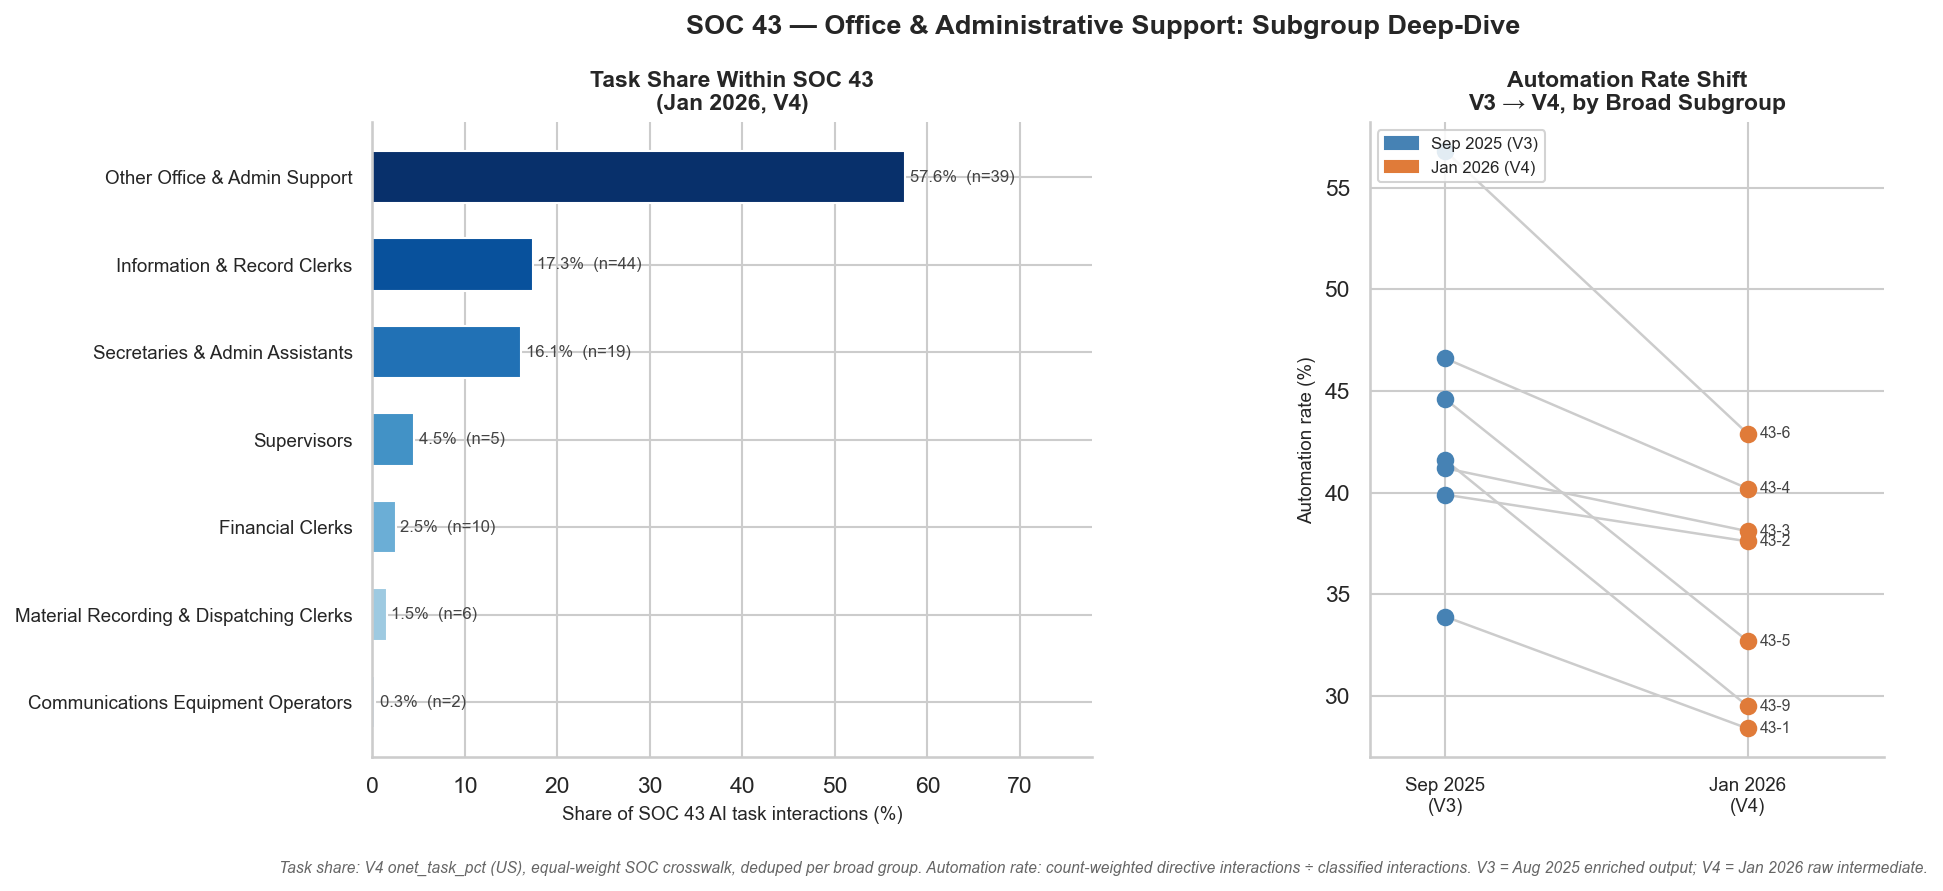
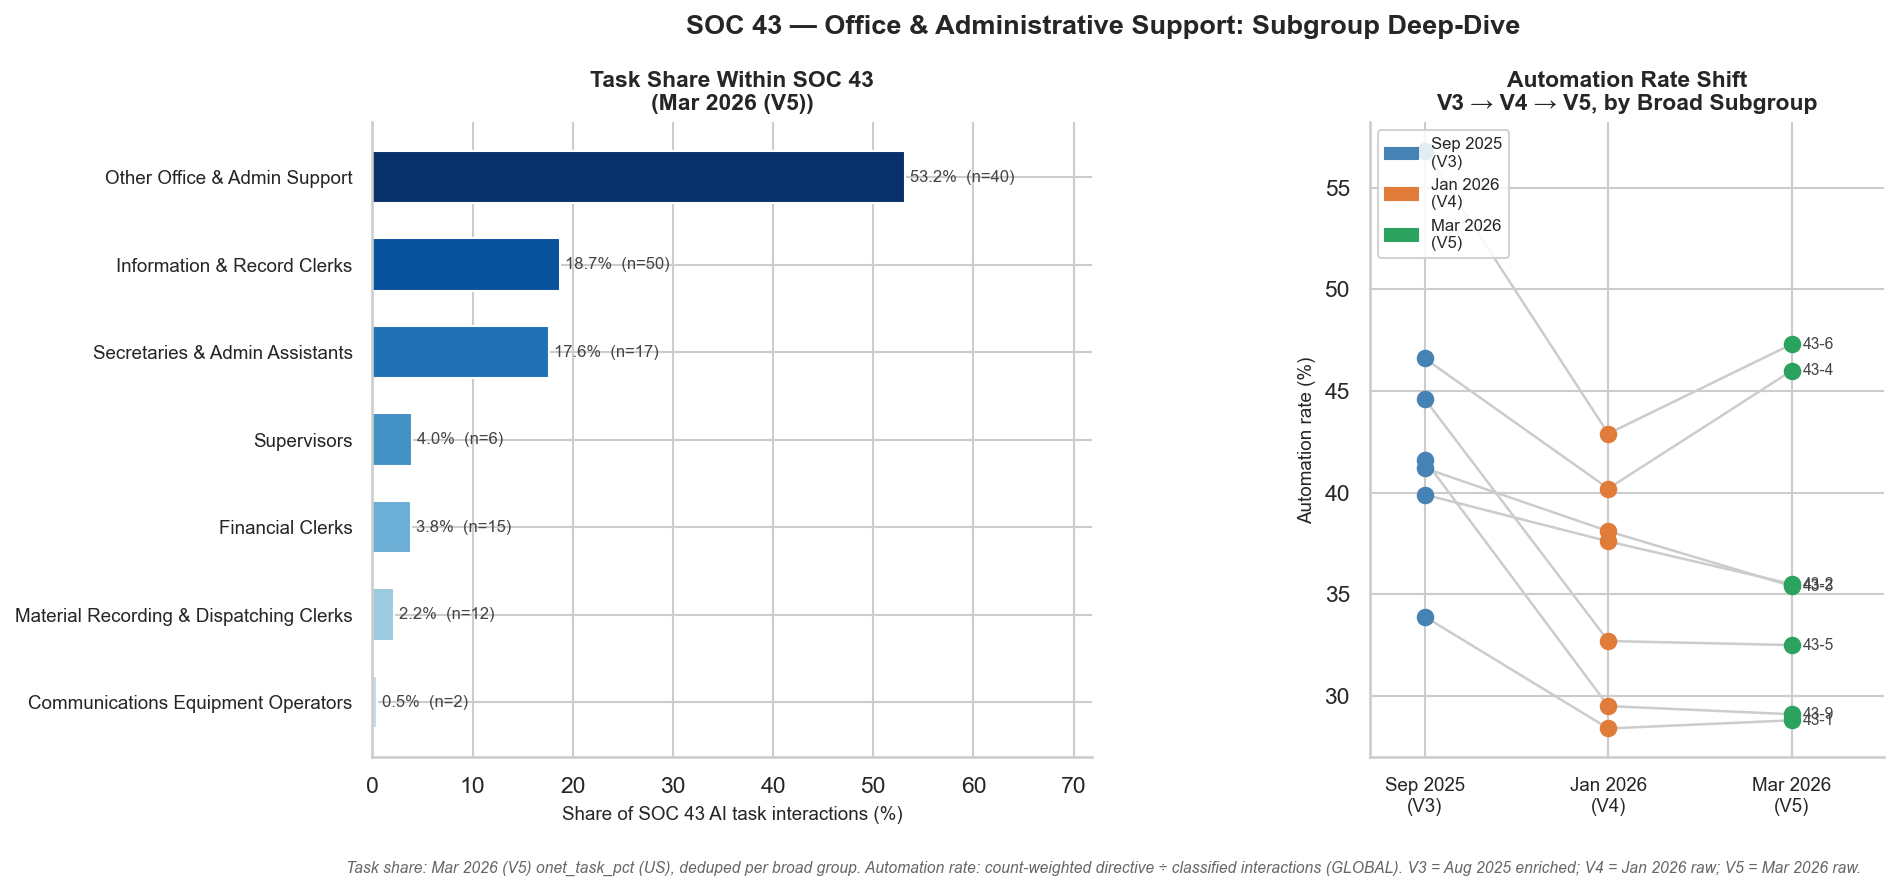
Add SOC 43 V5 update post with extended subgroup analysis
New post (2026-03-27-soc43-v5.md) covers five-release longitudinal trend
for SOC 43 and updated subgroup breakdown through March 2026. Documents
task-set change between V4 and V5 as a data quality disclosure. Updates
SOC43SubgroupChart to show V5 task share and three-release automation slope.

diff --git a/src/components/writing/AEICharts.jsx b/src/components/writing/AEICharts.jsx
@@ -479,11 +479,12 @@ export function SOC43SubgroupChart() {
   const groupColor = (g) => GROUP_COLORS[g] ?? '#AAAAAA'
   const isMain = (g) => MAIN_GROUPS.includes(g)
 
-  const sorted = [...data].sort((a, b) => b.share_of_soc43_v4 - a.share_of_soc43_v4)
+  const sorted = [...data].sort((a, b) => b.share_of_soc43_v5 - a.share_of_soc43_v5)
 
   const slopeData = data.flatMap(d => [
     { broad_group: d.broad_group, broad_title: d.broad_title, release: 'Sep 2025', automation_pct: d.automation_pct_v3 },
     { broad_group: d.broad_group, broad_title: d.broad_title, release: 'Jan 2026', automation_pct: d.automation_pct_v4 },
+    { broad_group: d.broad_group, broad_title: d.broad_title, release: 'Mar 2026', automation_pct: d.automation_pct_v5 },
   ])
 
   const barRef = usePlot({
@@ -493,22 +494,22 @@ export function SOC43SubgroupChart() {
     marginRight: 55,
     style: PLOT_STYLE,
     x: {
-      label: 'Share of SOC 43 task interactions (V4, %)',
+      label: 'Share of SOC 43 task interactions (V5, %)',
       domain: [0, 65],
     },
     y: { label: null },
     marks: [
       Plot.barX(sorted, {
-        x: 'share_of_soc43_v4',
+        x: 'share_of_soc43_v5',
         y: 'broad_title',
         fill: d => groupColor(d.broad_group),
         fillOpacity: d => isMain(d.broad_group) ? 0.75 : 0.35,
         sort: { y: '-x' },
       }),
       Plot.text(sorted, {
-        x: 'share_of_soc43_v4',
+        x: 'share_of_soc43_v5',
         y: 'broad_title',
-        text: d => d.share_of_soc43_v4.toFixed(1) + '%',
+        text: d => d.share_of_soc43_v5.toFixed(1) + '%',
         dx: 5,
         textAnchor: 'start',
         fontSize: 10,
@@ -526,7 +527,7 @@ export function SOC43SubgroupChart() {
     style: PLOT_STYLE,
     x: {
       label: null,
-      domain: ['Sep 2025', 'Jan 2026'],
+      domain: ['Sep 2025', 'Jan 2026', 'Mar 2026'],
       padding: 0.5,
     },
     y: {
@@ -551,7 +552,7 @@ export function SOC43SubgroupChart() {
         r: d => isMain(d.broad_group) ? 4 : 3,
         fillOpacity: d => isMain(d.broad_group) ? 0.85 : 0.4,
       }),
-      Plot.text(slopeData.filter(d => d.release === 'Jan 2026'), {
+      Plot.text(slopeData.filter(d => d.release === 'Mar 2026'), {
         x: 'release',
         y: 'automation_pct',
         text: 'broad_group',
@@ -567,11 +568,11 @@ export function SOC43SubgroupChart() {
   return (
     <div ref={containerRef} className="my-6">
       <p className="text-xs font-medium mb-1" style={{ color: 'var(--c-text-muted)' }}>
-        Task share within SOC 43 (V4, Jan 2026)
+        Task share within SOC 43 (V5, Mar 2026)
       </p>
       <div ref={barRef} />
       <p className="text-xs font-medium mt-5 mb-1" style={{ color: 'var(--c-text-muted)' }}>
-        Automation rate shift, Sep 2025 → Jan 2026
+        Automation rate shift, Sep 2025 → Jan 2026 → Mar 2026
       </p>
       <div ref={slopeRef} />
       <div className="flex flex-wrap gap-4 mt-2">
@@ -591,8 +592,8 @@ export function SOC43SubgroupChart() {
         </span>
       </div>
       <ChartCaption>
-        Task share: V4 raw intermediate (Jan 2026), US geography. Automation rate: count-weighted from global collaboration data, V3 (Sep 2025) and V4 (Jan 2026).
-        Denominator includes not_classified and none interactions. Small-n subgroups (&le;10 tasks, &lt;5% share) are indicative only.
+        Task share: V5 raw (Mar 2026), US geography. Automation rate: count-weighted from global collaboration data across V3 (Sep 2025), V4 (Jan 2026), and V5 (Mar 2026).
+        Denominator includes not_classified and none interactions. Task corpus changed between releases — V4→V5 automation shifts for 43-4, 43-3, 43-5 reflect both behavioral change and task-set composition change. Small-n subgroups (&lt;5% share) are indicative only.
       </ChartCaption>
     </div>
   )

diff --git a/src/content/blog/2026-03-27-soc43-v5.md b/src/content/blog/2026-03-27-soc43-v5.md
@@ -1,0 +1,130 @@
+---
+title: "Office Work, AI, and the Workers Who Can Least Afford Disruption: Five Releases In"
+date: "2026-03-27"
+tags: ["AI", "labor", "research", "anthropic", "LMI"]
+excerpt: "Thirteen months of Anthropic Economic Index data now show SOC 43 — Office and Administrative Support, the occupation group most concentrated with lower-income workers — reaching its highest AI task share yet at 9.4%. The automation rate has stabilized after a V3 spike. A subgroup breakdown updated through March 2026 shows where the engagement is concentrated and where the numbers should be read carefully."
+---
+
+Office and Administrative Support is the occupation group most concentrated with lower-income workers among those with high AI exposure — the central finding of Kneebone and Holmes (2025), the Federal Reserve Bank of San Francisco working paper this project extends. Thirteen months into tracking the Anthropic Economic Index across five public releases, SOC 43 is also the group with the highest AI task share of any LMI-concentrated occupation: 9.4% of all Claude interactions as of March 2026, the highest it has been across all five releases.
+
+This post covers two things: the updated longitudinal picture for SOC 43 through the V5 release (March 2026), and a refreshed subgroup breakdown — updated for the first time since the [prior post](/writing/blog/2026-03-17-soc43-subgroup) — drilling into the seven O\*NET broad groups that make up SOC 43. The LMI angle is the reason both analyses matter. These are not abstract occupational categories. They are where the people with the least capacity to absorb labor market disruption are doing a disproportionate share of their work.
+
+---
+
+## The Five-Release Trend
+
+| Release | Task share | Automation rate | Augmentation rate | Task success |
+|---------|-----------|----------------|------------------|-------------|
+| Feb 2025 (V1) | 7.9% | — | — | — |
+| Mar 2025 (V2) | 7.1% | 43.5% | 56.5% | — |
+| Sep 2025 (V3) | 8.1% | 62.7% | 37.3% | — |
+| Jan 2026 (V4) | 8.3% | 54.3% | 45.7% | 62.8% |
+| Mar 2026 (V5) | **9.4%** | 55.8% | 44.2% | 64.9% |
+
+Three things stand out.
+
+**Task share is at its highest point.** The V1 to V2 dip (7.9% to 7.1%) has been more than recovered. SOC 43 now accounts for nearly one in ten Claude interactions, measured by O\*NET task mapping. Whether that trajectory continues is unknown, but there is no sign of it plateauing across the data we have.
+
+**The V3 automation spike now looks like an outlier.** V3 showed SOC 43 automation at 62.7%, a figure that drove significant concern in the prior analysis. V4 (54.3%) and V5 (55.8%) cluster together more than 8 percentage points below that peak. The most plausible reading is that V3 captured a window — August 2025, the week of data collection — where something specific was happening, whether in model behavior following the Claude 4 rollout, in seasonal usage patterns, or in the composition of users active that week. Two consecutive releases at 54–56% does not resolve this but it does reduce the weight we should put on V3 as a reliable anchor.
+
+**Task success in SOC 43 is below the panel average.** The task success metric, introduced in V4 and available in V5, measures the share of interactions Claude assesses as successfully completed. SOC 43's rate in V5 is 64.9%, up from 62.8% in V4 but still below the panel average of roughly 71% across all SOC groups. Among the four LMI-high occupation groups, SOC 43 and Sales (59.2%) are the lowest. The two LMI-high groups with lower AI task share — Healthcare Support (82.7%) and Transportation (74.7%) — have substantially higher success rates. Self-assessed success is a noisy metric and should not be over-interpreted, but the pattern is consistent: the occupations where lower-income workers are most concentrated in AI use are also the occupations where Claude is least confident the interactions are working.
+
+---
+
+## The Subgroup Picture, Updated Through V5
+
+SOC 43 contains seven O\*NET broad groups ranging from first-line supervisors (43-1) to data entry keyers and word processors (43-9). The prior post established the basic concentration story using V3 and V4. This update adds V5 collaboration data and V5 task share, while being explicit about where the numbers are and are not reliable.
+
+### Task share: 43-9 still dominant, but less so
+
+| Broad group | Title | V4 share | V5 share | V4 tasks | V5 tasks |
+|-------------|-------|---------|---------|----------|----------|
+| 43-9 | Other Office & Admin Support | 57.6% | **53.2%** | 39 | 40 |
+| 43-4 | Information & Record Clerks | 17.3% | 18.7% | 44 | **50** |
+| 43-6 | Secretaries & Admin Assistants | 16.1% | 17.6% | 19 | **17** |
+| 43-1 | Supervisors | 4.5% | 4.0% | 5 | 6 |
+| 43-3 | Financial Clerks | 2.5% | 3.8% | 10 | **15** |
+| 43-5 | Material Recording & Dispatching | 1.5% | 2.2% | 6 | **12** |
+| 43-2 | Communications Equipment Operators | 0.3% | 0.5% | 2 | 2 |
+
+43-9 dropped from 57.6% to 53.2% of SOC 43's task share between V4 and V5, while 43-4, 43-3, and 43-5 all gained. The basic concentration story holds — 43-9, 43-4, and 43-6 together account for 89% of SOC 43's AI task interactions in V5 — but it is somewhat less extreme than V4 suggested.
+
+### A data quality note that must be read before interpreting V5 subgroup automation rates
+
+Between V4 (January 2026) and V5 (March 2026), the set of O\*NET tasks included in the AEI changed. Several subgroups saw meaningful task count changes:
+
+- **43-4 Information & Record Clerks: +6 tasks** (44 → 50). Tasks added include "answer customers' questions about deposit accounts," "assemble documents for loan closings," "compose correspondence requesting medical information," "provide clients with assistance preparing travel documents," "type acknowledgment letters," and others. Tasks removed include "process, verify, and maintain personnel-related documentation."
+- **43-3 Financial Clerks: +5 tasks** (10 → 15). Tasks added include "calculate, prepare, and issue bills and invoices," "compute financial fees and service charges," "operate computers with accounting software," "prepare purchasing files and reports," "review purchase orders and charge slips," and "verify accuracy of billing data."
+- **43-5 Material Recording & Dispatching Clerks: +6 tasks** (6 → 12). Tasks added include several customer-facing and logistics-adjacent tasks.
+- **43-6 Secretaries & Admin Assistants: −2 tasks** (19 → 17). Tasks removed include "make travel arrangements for executives" and "schedule and make appointments" — both tasks likely to register as augmentation (AI helping a human accomplish a task with ongoing direction) rather than automation.
+
+These are real changes to the task corpus, not matching errors. But they mean that V4-to-V5 changes in automation rates for these subgroups reflect a mixture of two things: genuine change in how Claude is being used, and compositional change from a different task set. The two cannot be separated from the available data.
+
+With that caveat explicitly on the table, here are the three-release automation rates. The interactive chart below shows both task share (V5) and the automation slope across all three releases.
+
+![SOC 43 subgroup: task share and automation rate shift V3 → V4 → V5](/plots/soc43_subgroup.png)
+
+### Automation rates: V3 → V4 → V5
+
+| Broad group | Auto V3 | Auto V4 | Auto V5 | Aug V3 | Aug V4 | Aug V5 |
+|-------------|---------|---------|---------|--------|--------|--------|
+| 43-9 Other Office & Admin | 41.6% | 29.5% | **29.1%** | 55.0% | 65.7% | 66.2% |
+| 43-4 Info & Record Clerks | 46.6% | 40.2% | **46.0%** | 38.8% | 44.5% | 40.6% |
+| 43-6 Secretaries & Admin | 56.8% | 42.9% | **47.3%** | 31.7% | 45.9% | 43.0% |
+| 43-1 Supervisors | 33.9% | 28.4% | **28.8%** | 56.7% | 62.4% | 62.2% |
+| 43-3 Financial Clerks | 41.2% | 38.1% | **35.4%** | 28.4% | 37.5% | 40.5% |
+| 43-5 Material Recording | 44.6% | 32.7% | **32.5%** | 28.2% | 30.5% | 36.2% |
+| 43-2 Comms Equipment Ops | 39.9% | 37.6% | **35.5%** | 39.4% | 39.4% | 36.2% |
+
+Several patterns survive the task-set caveat because they are consistent across all three releases:
+
+**43-9 (Other Office & Admin Support) shows a sustained augmentation shift.** At 29.1% automation in V5 — down from 41.6% in V3 — this group has moved decisively toward augmentation across every release. This is the subgroup with the most routine and substitutable work in SOC 43 (data entry, word processing, office machine operation), and the direction of the shift is toward AI assisting these workers rather than replacing them end-to-end. That said, the absolute task share of 43-9 (53% of SOC 43) means this pattern has more weight than any other finding in the subgroup analysis.
+
+**43-4 (Information & Record Clerks) remains persistently automation-heavy, but the V5 number is contaminated.** Across V3 (46.6%) and V4 (40.2%), 43-4 was consistently the most automation-oriented large subgroup. The V5 figure of 46.0% represents a jump back toward the V3 level — but 43-4 added 6 tasks between V4 and V5, several of which (billing correspondence, loan document assembly) are plausibly directive rather than collaborative. We cannot determine how much of the 5.8-point increase is real and how much is compositional. The honest read is that 43-4 is and has been the most automation-concentrated subgroup, and V5 does not change that conclusion, but the V4→V5 direction of movement should not be quoted as a clean trend.
+
+**43-6 (Secretaries & Admin Assistants) lost two augmentation-likely tasks between V4 and V5.** The removal of "make travel arrangements for executives" and "schedule and make appointments" from the task set mechanically pushes 43-6's automation rate up, because both removed tasks are the kind of interactive, back-and-forth work that generates augmentation-type interactions. The 4.4-point increase in 43-6's automation rate (42.9% → 47.3%) should be treated with particular skepticism.
+
+**The four small-n subgroups (43-1, 43-3, 43-5, 43-2) collectively represent 8.3% of SOC 43's V5 task share.** Their findings should be treated as indicative rather than reliable across all releases.
+
+---
+
+## What the LMI Frame Adds
+
+The standard framing for AI labor market analysis asks: which occupations are most exposed? This project asks a different question: among those with high exposure, who is doing that work, and what does the character of the AI engagement look like for them?
+
+The answer in SOC 43 across five releases is:
+
+- The AI task share is high and rising — 9.4% is nearly three times the rate of Healthcare Support (0.3%) and Transportation (0.2%), the other major LMI-high groups.
+- The automation rate (55.8% in V5 at the major-group level) is above the global average for Claude AI (45.5%). Among the four LMI-high groups, SOC 43 and Sales both run above global-average automation.
+- The task success rate for SOC 43 is below average and below the other LMI-high groups that have lower task share.
+- Within SOC 43, the highest task share concentration is in 43-9 — the most routine, substitutable occupations — and that subgroup is shifting toward augmentation.
+
+This combination does not point cleanly in one direction. A rising task share with high automation rates in the subgroups where the work is most routine is a signal worth watching, even as the major-group level shows augmentation still dominant and the task success rate is below average. The picture has gotten more complex with each release, not simpler.
+
+---
+
+## Methods Notes
+
+**Task share (main panel):** Derived for all 23 SOC major groups using the O\*NET task crosswalk and the `onet_task_pct` facet at US/country geography. Equal-weight distribution when a task spans multiple SOC groups. V5 uses the same derivation as V4. Full methods in [`schema_comparison.md`](https://github.com/vargovargo/economic-index-trends/blob/main/schema_comparison.md).
+
+**Subgroup task share:** V5 task share at the O\*NET broad-group level uses the V5 `onet_task_pct` facet at US/country geography. Tasks deduplicated within broad group before aggregation. Shares normalize to 100% within SOC 43.
+
+**Collaboration rates (subgroup):** Derived from the `onet_task::collaboration` facet at GLOBAL geography — the only geography available for this facet in any release. Task share (US) and collaboration (GLOBAL) are from different geographic filters. This mismatch cannot be corrected without additional data.
+
+**V5 task-set change:** As documented above, the O\*NET task corpus in the AEI changed between V4 and V5. Task counts changed by +1 to +6 across five of the seven SOC 43 broad groups. The V5 collaboration rates for 43-4, 43-3, and 43-5 in particular reflect a different task composition than V4. This project cannot isolate behavioral change from compositional change for these subgroups.
+
+**LMI flag taxonomy:** The `high` LMI flag (SOC groups 31, 41, 43, 53) follows Kneebone and Holmes (2025) directly. The `moderate` and `low` tiers are this project's classification and should not be attributed to K&H.
+
+Full methods: [`soc43_methods.md`](https://github.com/vargovargo/economic-index-trends/blob/main/soc43_methods.md)
+
+---
+
+## Data and Code
+
+All data, code, and methods documentation are in the [economic-index-trends](https://github.com/vargovargo/economic-index-trends) repository. The subgroup panel (`soc43_subgroup_panel.csv`), now updated through V5, and the full longitudinal panel (`unified_task_panel.csv`, 115 rows across five releases) are in `data/processed/`.
+
+---
+
+## Reference
+
+Kneebone, E. and Holmes, N. (2025). "On-the-Job Exposure to AI Among Lower-Income Workers." Federal Reserve Bank of San Francisco Working Paper 2025-03.
